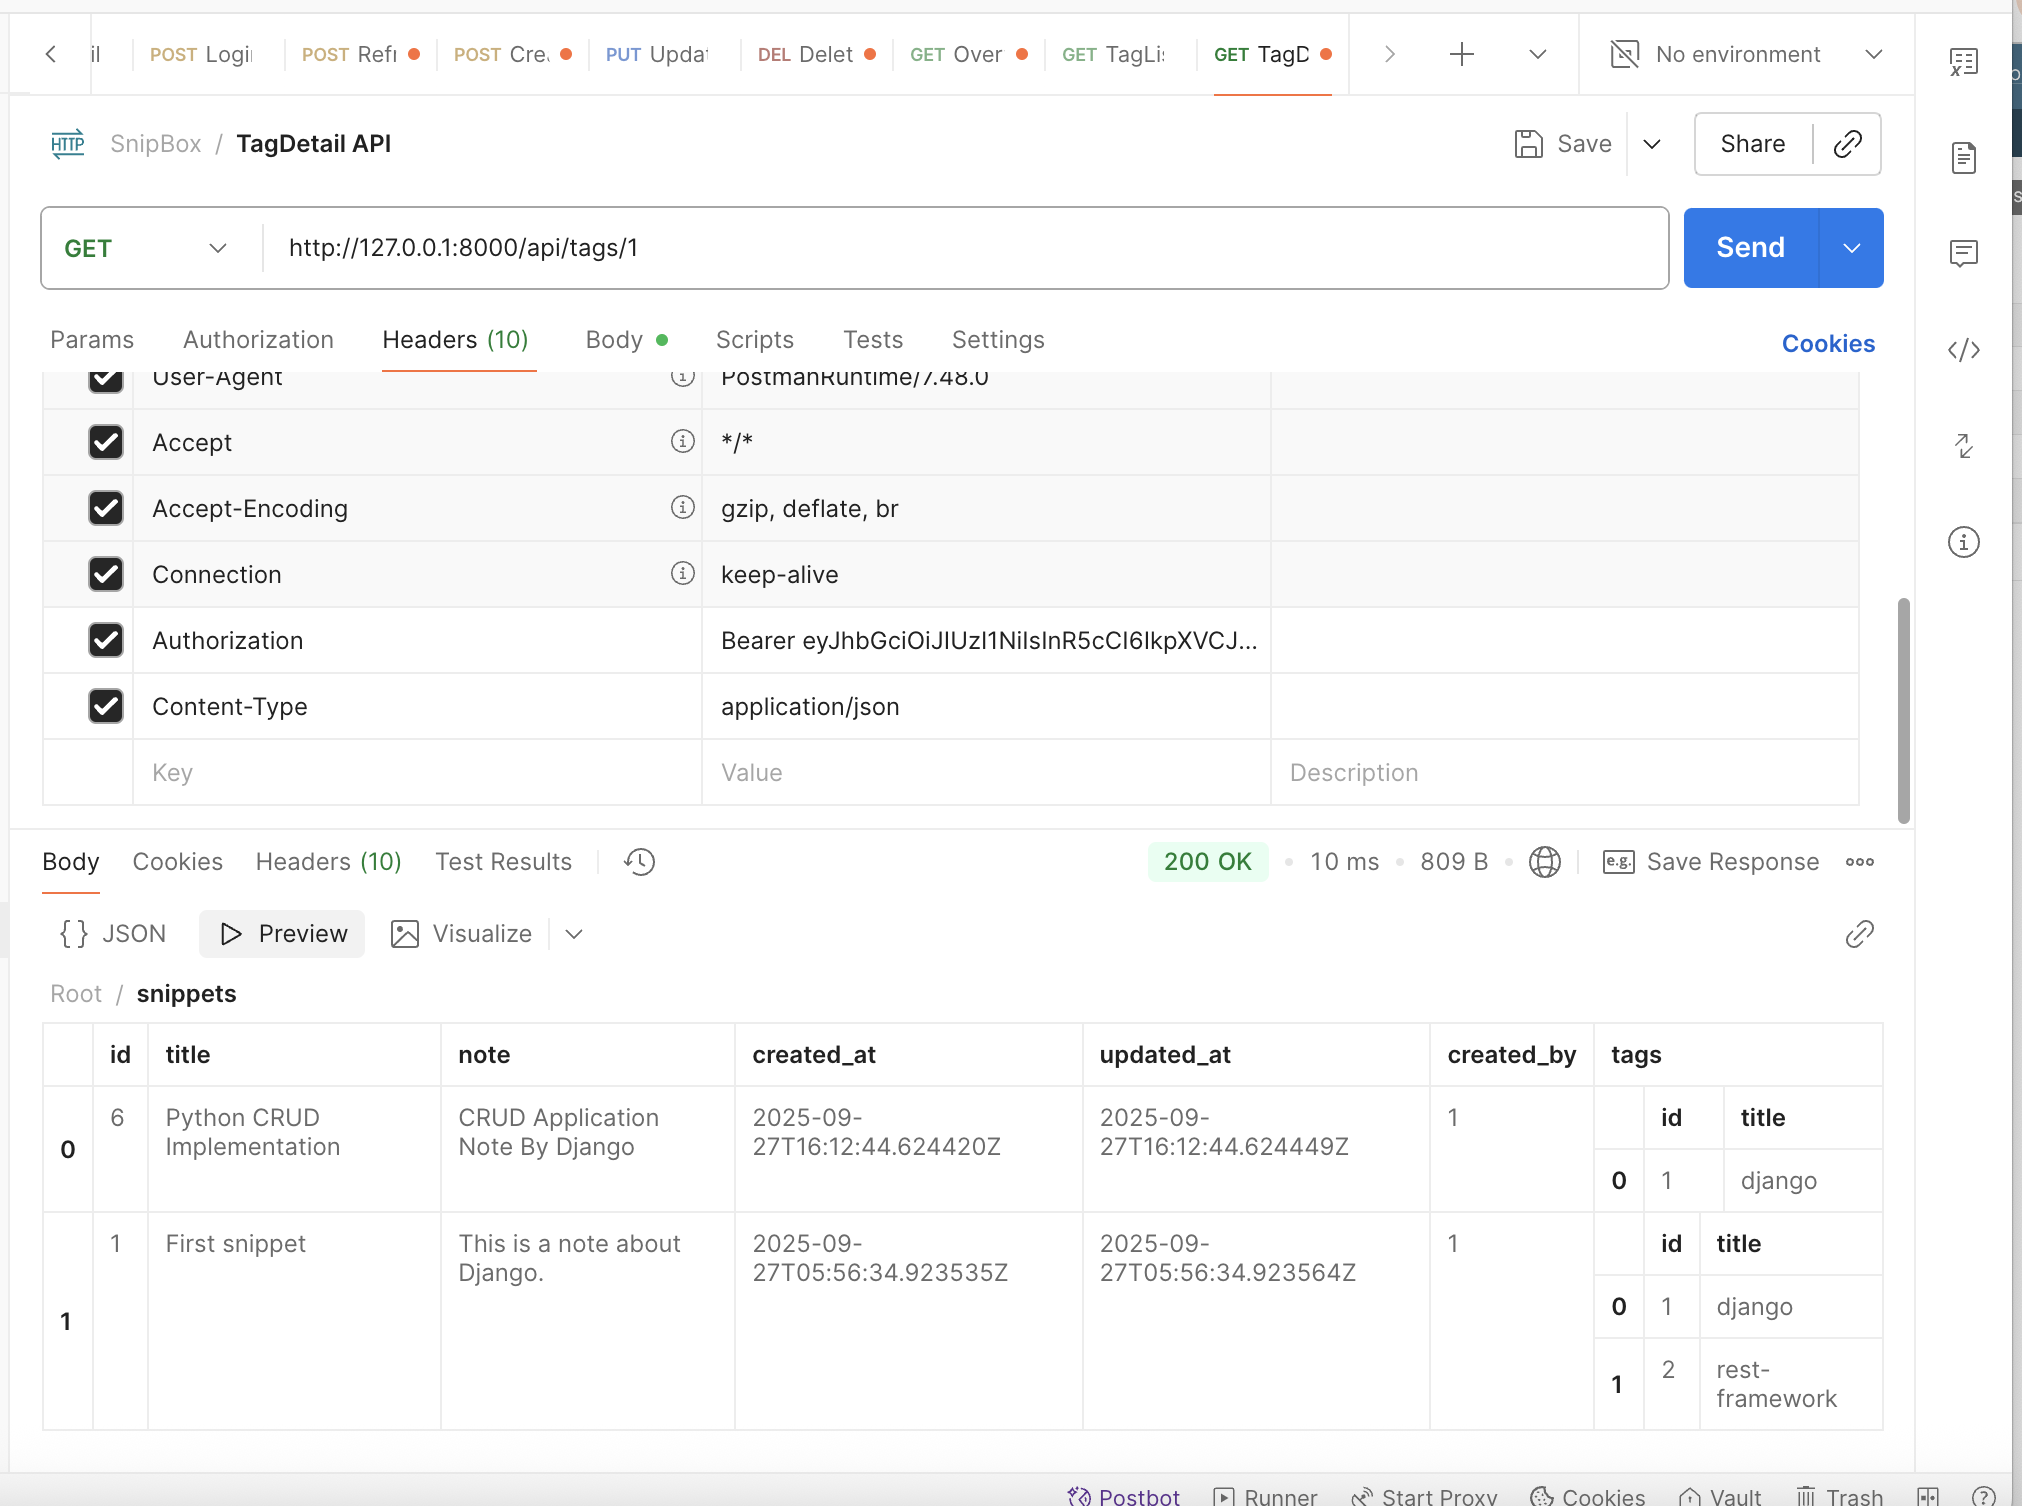
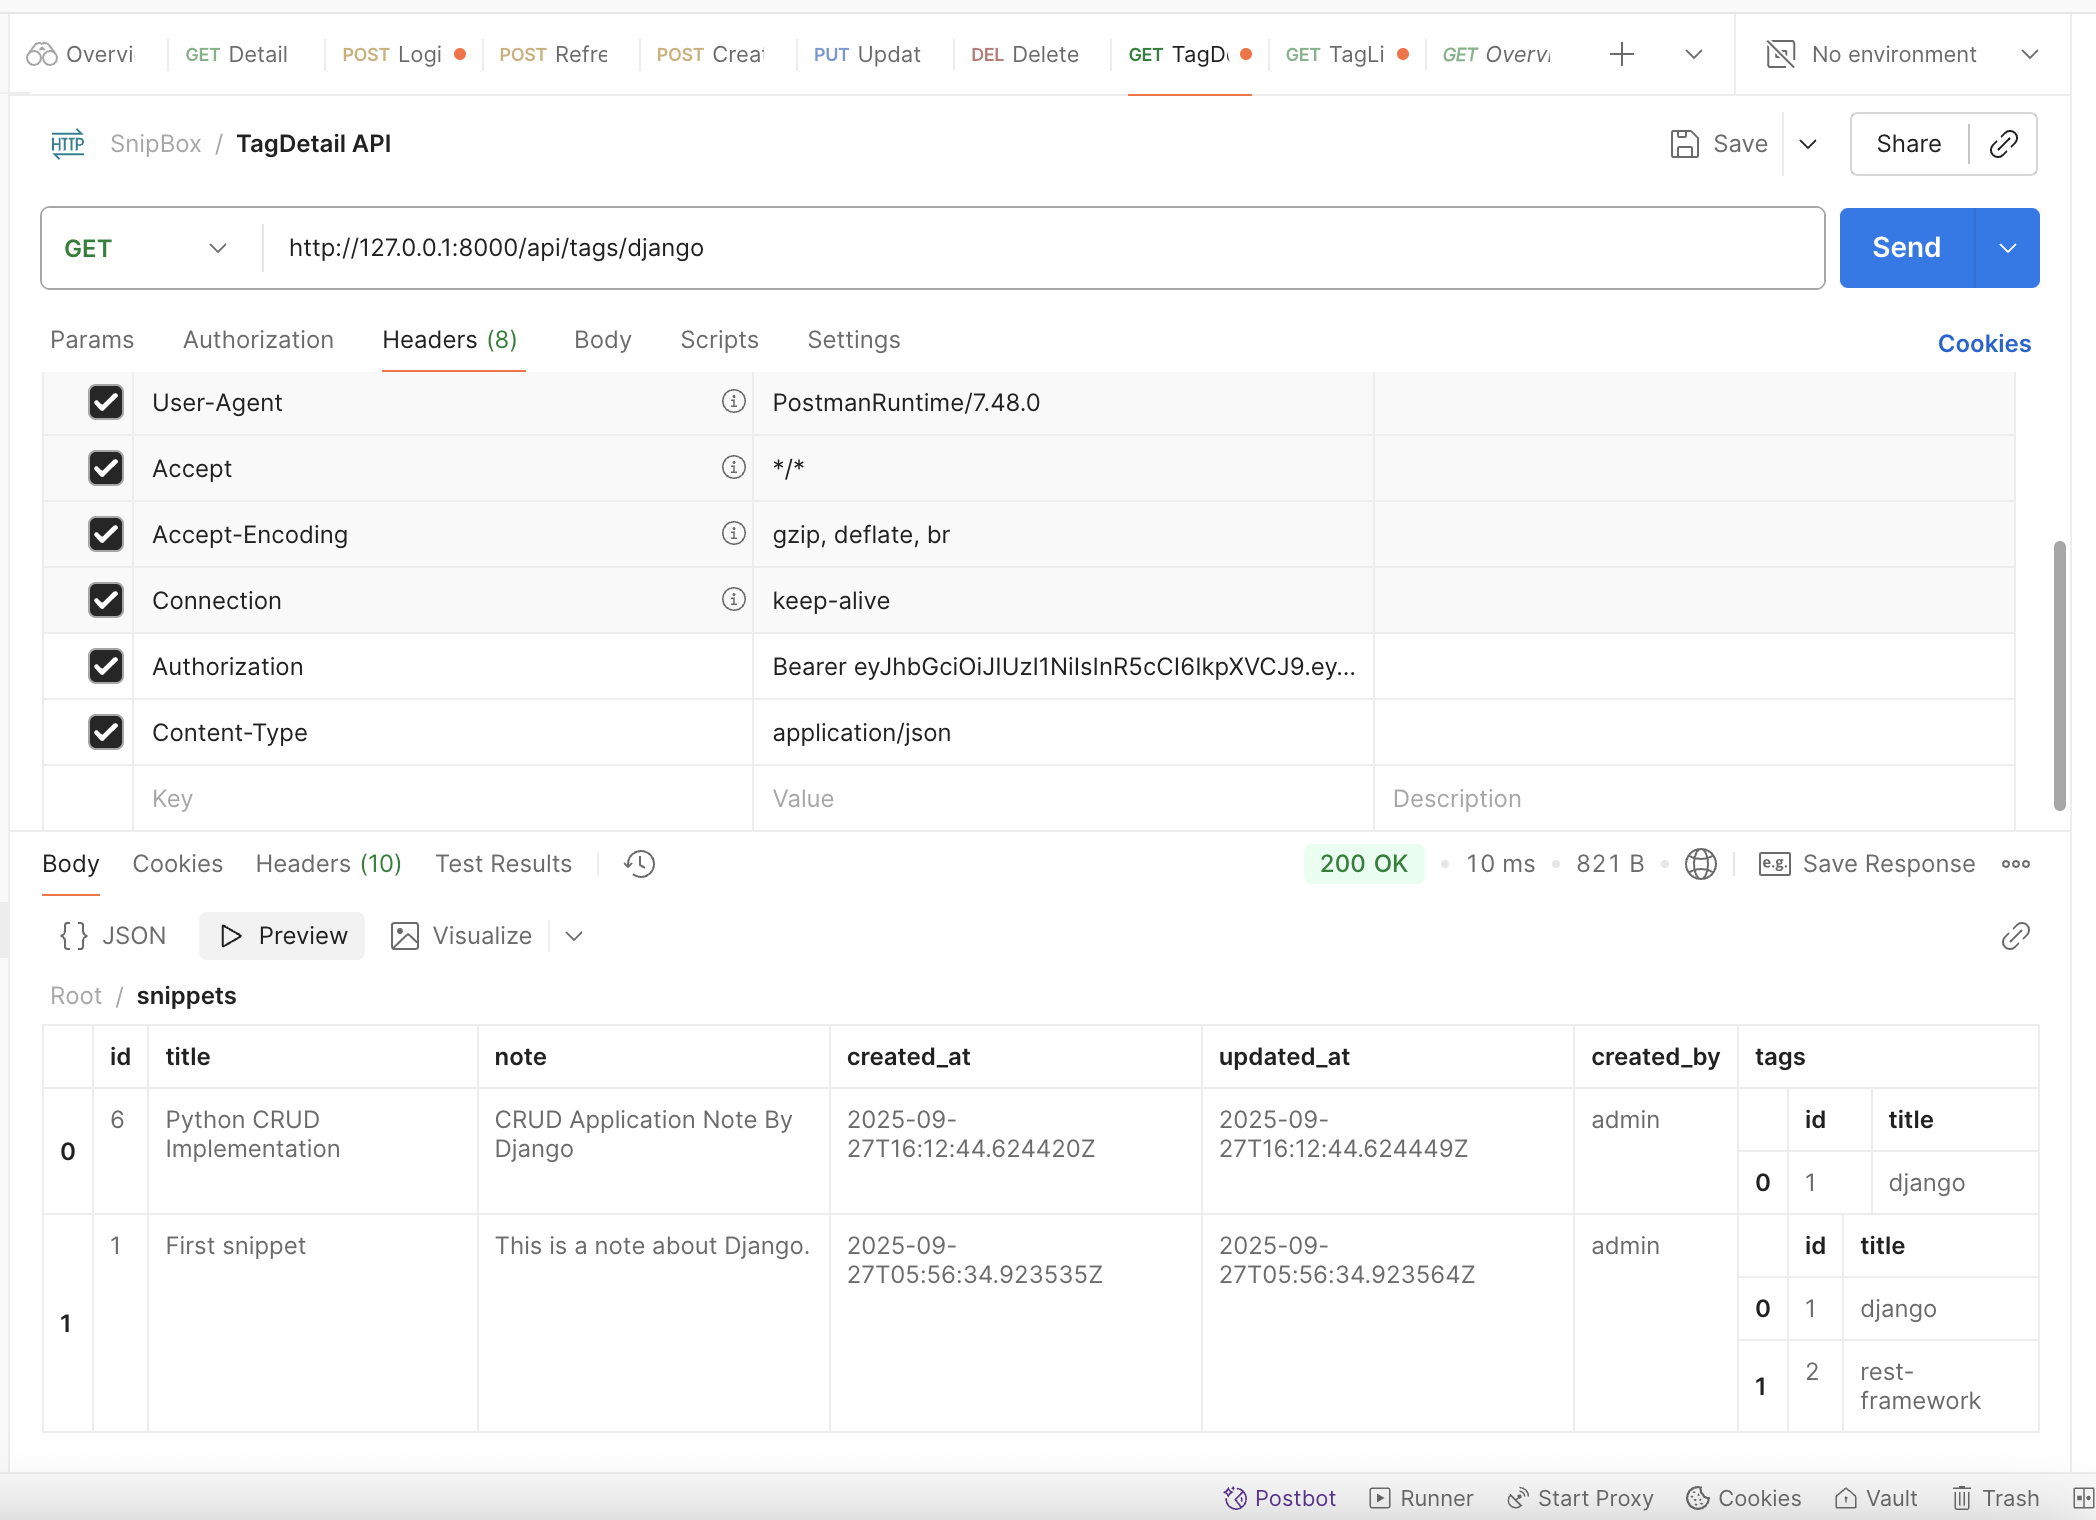
Update TagDetail API to use title as lookup field instead of ID

diff --git a/snippetsapp/urls.py b/snippetsapp/urls.py
@@ -10,6 +10,6 @@ urlpatterns = [
     path('snippets/<int:pk>/delete/', SnippetDeleteAPI.as_view(), name='snippet-delete'),
     path('snippets/overview/', OverviewAPI.as_view(), name='snippet-overview'),
     path('tags/', TagListView.as_view(), name='list-tags'),
-    path('tags/<int:pk>/', TagDetailView.as_view(), name='tag-detail')
+    path('tags/<str:title>/', TagDetailView.as_view(), name='tag-detail'),
 
 ]

diff --git a/snippetsapp/views.py b/snippetsapp/views.py
@@ -60,6 +60,7 @@ class TagDetailView(generics.RetrieveAPIView):
     serializer_class = TagSerializer
     permission_classes = [permissions.IsAuthenticated]
     queryset = Tag.objects.all()
+    lookup_field = 'title'
 
     def get(self, request, *args, **kwargs):
         tag = self.get_object()

diff --git a/README.md b/README.md
@@ -126,7 +126,7 @@ SnipBoxV2/
 
 - **Tags:**
   - `GET /api/tags/` - List all tags
-  - `GET /api/tags/{id}` - Tag Detail Get snippets linked to the selected tag
+  - `GET /api/tags/{title}` - Tag Detail Get snippets linked to the selected tag title
 
 ---
 ## 🧪 Testing
@@ -182,7 +182,7 @@ Curl commands for testing the API endpoints:
   ```
 - **Get Tag Detail:**
   ```bash
-  curl -X GET http://localhost:8000/api/tags/{id}/ \
+  curl -X GET http://localhost:8000/api/tags/{title}/ \
   -H "Authorization: Bearer your_jwt_token" \
   -H "Content-Type: application/json"
   ```
